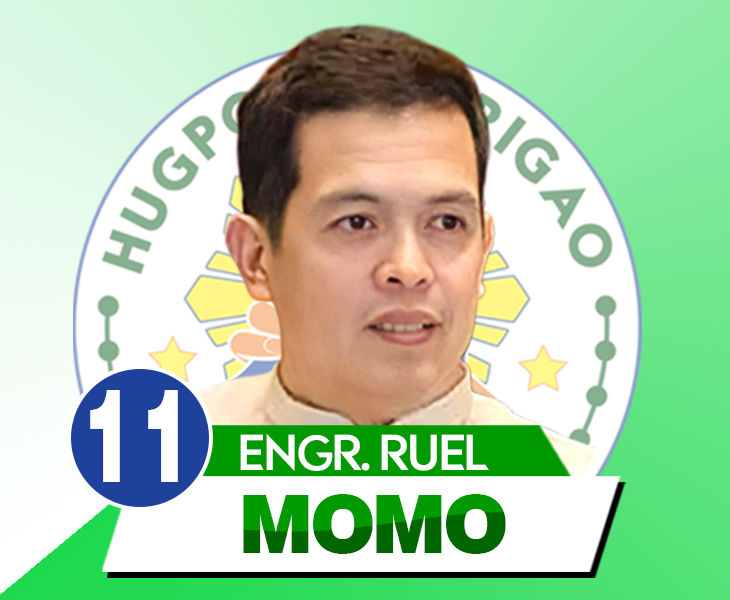
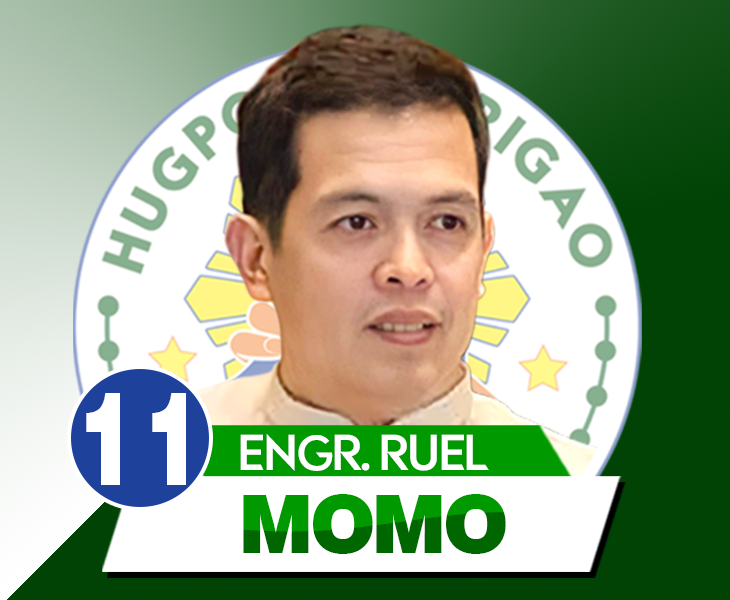
change images in index

diff --git a/public/assets/css/ansiblebfda.css b/public/assets/css/ansiblebfda.css
@@ -54,7 +54,7 @@
     width: 40px;
     height: 40px;
     z-index: 999999999 !important;
-    right: 5px;
+    right: 15px;
     top: 20px;
     display: block;
 }

diff --git a/resources/views/index.blade.php b/resources/views/index.blade.php
@@ -66,9 +66,9 @@ button.btn.btn-link i {
 
 @section('content')
     <div class="candidates pt-5" id="kilalanin">
-        <div class="candidate w-224 clg-hidden"><a href="{{ url('alexander-t-pimentel') }}"><img src="{{ asset('assets/images/candidates/pimentel.png') }}" class="lg-hidden" alt="" title=""></a></div>
-        <div class="candidate w-224  m-negmargin-5 cxs-hidden"><a href="{{ url('alexander-t-pimentel') }}"><img src="{{ asset('assets/images/candidates/pimentel.png') }}" alt="" title=""></a></div>
-        <div class="candidate w-224"><a href="#"><img src="{{ asset('assets/images/candidates/alameda.png') }}" alt="" title=""></a></div>
+        <div class="candidate w-224 clg-hidden"><a href="{{ url('alexander-t-pimentel') }}"><img src="{{ asset('assets/images/candidates/pimentel.png') }}" class="lg-hidden img-thumbnail shadow" alt="" title=""></a></div>
+        <div class="candidate w-224  m-negmargin-5 cxs-hidden"><a href="{{ url('alexander-t-pimentel') }}"><img class="img-thumbnail shadow" src="{{ asset('assets/images/candidates/pimentel.png') }}" alt="" title=""></a></div>
+        <div class="candidate w-224"><a href="#"><img class="img-thumbnail shadow" src="{{ asset('assets/images/candidates/alameda.png') }}" alt="" title=""></a></div>
         <div class="clear"></div>
     </div>
 
@@ -79,23 +79,23 @@ button.btn.btn-link i {
             <h1 class="fgrey">1st District</h1>
         </div>
         <div class="candidates" id="kilalanin">
-            <div class="candidate w-224 clg-hidden"><a href="#"><img src="{{ asset('assets/images/candidates/rmomo.png') }}" class="lg-hidden" alt="" title=""></a></div>
-            <div class="candidate w-325  m-negmargin-5 cxs-hidden"><a href="#"><img src="{{ asset('assets/images/candidates/rmomo.png') }}" alt="" title=""></a></div>
+            <div class="candidate w-224 clg-hidden"><a href="#"><img src="{{ asset('assets/images/candidates/rmomo.png') }}" class="lg-hidden img-thumbnail shadow" alt="" title=""></a></div>
+            <div class="candidate w-325  m-negmargin-5 cxs-hidden"><a href="#"><img class="img-thumbnail shadow" src="{{ asset('assets/images/candidates/rmomo.png') }}" alt="" title=""></a></div>
         </div>
         <div class="pt-1 pb-1">
             <h1 class="fgrey">Board Members</h1>
         </div>
         <div class="candidates" id="kilalanin">
-            <div class="candidate w-224 clg-hidden"><a href=""><img src="{{ asset('assets/images/candidates/first/azarcon.png') }}" class="lg-hidden" alt="" title=""></a></div>
-            <div class="candidate w-325  m-negmargin-5 cxs-hidden"><a href=""><img src="{{ asset('assets/images/candidates/first/azarcon.png') }}" alt="" title=""></a></div>
-            <div class="candidate w-224 clg-hidden"><a href=""><img src="{{ asset('assets/images/candidates/first/dumagan.png') }}" class="lg-hidden" alt="" title=""></a></div>
-            <div class="candidate w-325 m-negmargin-5 cxs-hidden"><a href="#"><img src="{{ asset('assets/images/candidates/first/dumagan.png') }}" alt="" title=""></a></div>
-            <div class="candidate w-224 clg-hidden"><a href=""><img src="{{ asset('assets/images/candidates/first/layno.png') }}" class="lg-hidden" alt="" title=""></a></div>
-            <div class="candidate w-325 m-negmargin-5 cxs-hidden"><a href="#"><img src="{{ asset('assets/images/candidates/first/layno.png') }}" alt="" title=""></a></div>
-            <div class="candidate w-224 clg-hidden"><a href=""><img src="{{ asset('assets/images/candidates/first/momo.png') }}" class="lg-hidden" alt="" title=""></a></div>
-            <div class="candidate w-325 m-negmargin-5 cxs-hidden"><a href="#"><img src="{{ asset('assets/images/candidates/first/momo.png') }}" alt="" title=""></a></div>
-            <div class="candidate w-224 clg-hidden"><a href=""><img src="{{ asset('assets/images/candidates/first/montesclaros.png') }}" class="lg-hidden" alt="" title=""></a></div>
-            <div class="candidate w-325 m-negmargin-5 cxs-hidden"><a href="#"><img src="{{ asset('assets/images/candidates/first/montesclaros.png') }}" alt="" title=""></a></div>
+            <div class="candidate w-224 clg-hidden"><a href=""><img src="{{ asset('assets/images/candidates/first/azarcon.png') }}" class="lg-hidden img-thumbnail shadow" alt="" title=""></a></div>
+            <div class="candidate w-325  m-negmargin-5 cxs-hidden"><a href=""><img class="img-thumbnail shadow" src="{{ asset('assets/images/candidates/first/azarcon.png') }}" alt="" title=""></a></div>
+            <div class="candidate w-224 clg-hidden"><a href=""><img src="{{ asset('assets/images/candidates/first/dumagan.png') }}" class="lg-hidden img-thumbnail shadow" alt="" title=""></a></div>
+            <div class="candidate w-325 m-negmargin-5 cxs-hidden"><a href="#"><img class="img-thumbnail shadow" src="{{ asset('assets/images/candidates/first/dumagan.png') }}" alt="" title=""></a></div>
+            <div class="candidate w-224 clg-hidden"><a href=""><img src="{{ asset('assets/images/candidates/first/layno.png') }}" class="lg-hidden img-thumbnail shadow" alt="" title=""></a></div>
+            <div class="candidate w-325 m-negmargin-5 cxs-hidden"><a href="#"><img class="img-thumbnail shadow" src="{{ asset('assets/images/candidates/first/layno.png') }}" alt="" title=""></a></div>
+            <div class="candidate w-224 clg-hidden"><a href=""><img src="{{ asset('assets/images/candidates/first/momo.png') }}" class="lg-hidden img-thumbnail shadow" alt="" title=""></a></div>
+            <div class="candidate w-325 m-negmargin-5 cxs-hidden"><a href="#"><img class="img-thumbnail shadow" src="{{ asset('assets/images/candidates/first/momo.png') }}" alt="" title=""></a></div>
+            <div class="candidate w-224 clg-hidden"><a href=""><img src="{{ asset('assets/images/candidates/first/montesclaros.png') }}" class="lg-hidden img-thumbnail shadow" alt="" title=""></a></div>
+            <div class="candidate w-325 m-negmargin-5 cxs-hidden"><a href="#"><img class="img-thumbnail shadow" src="{{ asset('assets/images/candidates/first/montesclaros.png') }}" alt="" title=""></a></div>
             <div class="clear"></div>
         </div>
         {{-- municipalities --}}
@@ -431,23 +431,23 @@ button.btn.btn-link i {
             <h1 class="fgrey">2nd District</h1>
         </div>
         <div class="candidates" id="kilalanin">
-            <div class="candidate w-224 clg-hidden"><a href="#"><img src="{{ asset('assets/images/candidates/jpimentel.png') }}" class="lg-hidden" alt="" title=""></a></div>
-            <div class="candidate w-325  m-negmargin-5 cxs-hidden"><a href="#"><img src="{{ asset('assets/images/candidates/jpimentel.png') }}" alt="" title=""></a></div>
+            <div class="candidate w-224 clg-hidden"><a href="#"><img src="{{ asset('assets/images/candidates/jpimentel.png') }}" class="lg-hidden img-thumbnail shadow" alt="" title=""></a></div>
+            <div class="candidate w-325  m-negmargin-5 cxs-hidden"><a href="#"><img class="img-thumbnail shadow" src="{{ asset('assets/images/candidates/jpimentel.png') }}" alt="" title=""></a></div>
         </div>
         <div class="pt-1 pb-1">
             <h1 class="fgrey">Board Members</h1>
         </div>
         <div class="candidates" id="kilalanin">
-            <div class="candidate w-224 clg-hidden"><a href=""><img src="{{ asset('assets/images/candidates/second/canedo.png') }}" class="lg-hidden" alt="" title=""></a></div>
-            <div class="candidate w-325  m-negmargin-5 cxs-hidden"><a href=""><img src="{{ asset('assets/images/candidates/second/canedo.png') }}" alt="" title=""></a></div>
-            <div class="candidate w-224 clg-hidden"><a href=""><img src="{{ asset('assets/images/candidates/second/cejoco.png') }}" class="lg-hidden" alt="" title=""></a></div>
-            <div class="candidate w-325 m-negmargin-5 cxs-hidden"><a href="#"><img src="{{ asset('assets/images/candidates/second/cejoco.png') }}" alt="" title=""></a></div>
-            <div class="candidate w-224 clg-hidden"><a href=""><img src="{{ asset('assets/images/candidates/second/garay.png') }}" class="lg-hidden" alt="" title=""></a></div>
-            <div class="candidate w-325 m-negmargin-5 cxs-hidden"><a href="#"><img src="{{ asset('assets/images/candidates/second/garay.png') }}" alt="" title=""></a></div>
-            <div class="candidate w-224 clg-hidden"><a href=""><img src="{{ asset('assets/images/candidates/second/salazar.png') }}" class="lg-hidden" alt="" title=""></a></div>
-            <div class="candidate w-325 m-negmargin-5 cxs-hidden"><a href="#"><img src="{{ asset('assets/images/candidates/second/salazar.png') }}" alt="" title=""></a></div>
-            <div class="candidate w-224 clg-hidden"><a href=""><img src="{{ asset('assets/images/candidates/second/sayawan.png') }}" class="lg-hidden" alt="" title=""></a></div>
-            <div class="candidate w-325 m-negmargin-5 cxs-hidden"><a href="#"><img src="{{ asset('assets/images/candidates/second/sayawan.png') }}" alt="" title=""></a></div>
+            <div class="candidate w-224 clg-hidden"><a href=""><img src="{{ asset('assets/images/candidates/second/canedo.png') }}" class="lg-hidden img-thumbnail shadow" alt="" title=""></a></div>
+            <div class="candidate w-325  m-negmargin-5 cxs-hidden"><a href=""><img class="img-thumbnail shadow" src="{{ asset('assets/images/candidates/second/canedo.png') }}" alt="" title=""></a></div>
+            <div class="candidate w-224 clg-hidden"><a href=""><img src="{{ asset('assets/images/candidates/second/cejoco.png') }}" class="lg-hidden img-thumbnail shadow" alt="" title=""></a></div>
+            <div class="candidate w-325 m-negmargin-5 cxs-hidden"><a href="#"><img class="img-thumbnail shadow" src="{{ asset('assets/images/candidates/second/cejoco.png') }}" alt="" title=""></a></div>
+            <div class="candidate w-224 clg-hidden"><a href=""><img src="{{ asset('assets/images/candidates/second/garay.png') }}" class="lg-hidden img-thumbnail shadow" alt="" title=""></a></div>
+            <div class="candidate w-325 m-negmargin-5 cxs-hidden"><a href="#"><img class="img-thumbnail shadow" src="{{ asset('assets/images/candidates/second/garay.png') }}" alt="" title=""></a></div>
+            <div class="candidate w-224 clg-hidden"><a href=""><img src="{{ asset('assets/images/candidates/second/salazar.png') }}" class="lg-hidden img-thumbnail shadow" alt="" title=""></a></div>
+            <div class="candidate w-325 m-negmargin-5 cxs-hidden"><a href="#"><img class="img-thumbnail shadow" src="{{ asset('assets/images/candidates/second/salazar.png') }}" alt="" title=""></a></div>
+            <div class="candidate w-224 clg-hidden"><a href=""><img src="{{ asset('assets/images/candidates/second/sayawan.png') }}" class="lg-hidden img-thumbnail shadow" alt="" title=""></a></div>
+            <div class="candidate w-325 m-negmargin-5 cxs-hidden"><a href="#"><img class="img-thumbnail shadow" src="{{ asset('assets/images/candidates/second/sayawan.png') }}" alt="" title=""></a></div>
             <div class="clear"></div>
         </div>
 

diff --git a/resources/views/plataporma.blade.php b/resources/views/plataporma.blade.php
@@ -193,6 +193,7 @@
     </div>
     <div class="bot-pad">&nbsp;</div>
 </div>
+<br><br>
 
 
 
